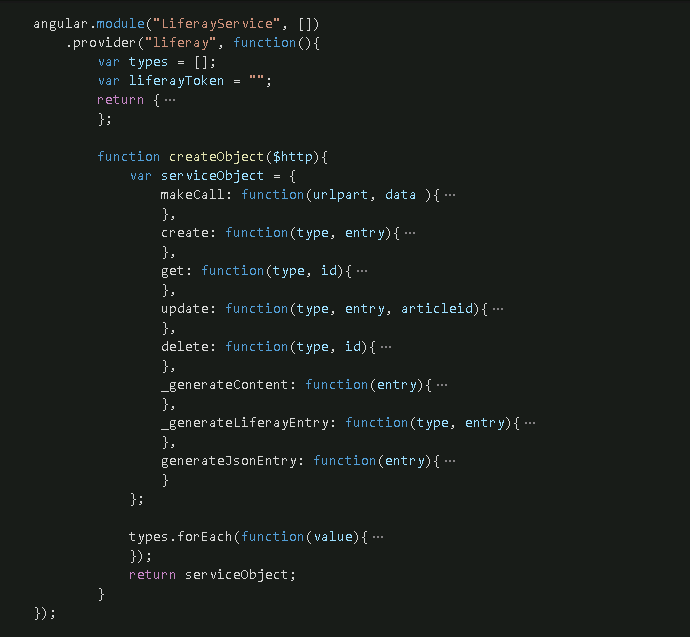
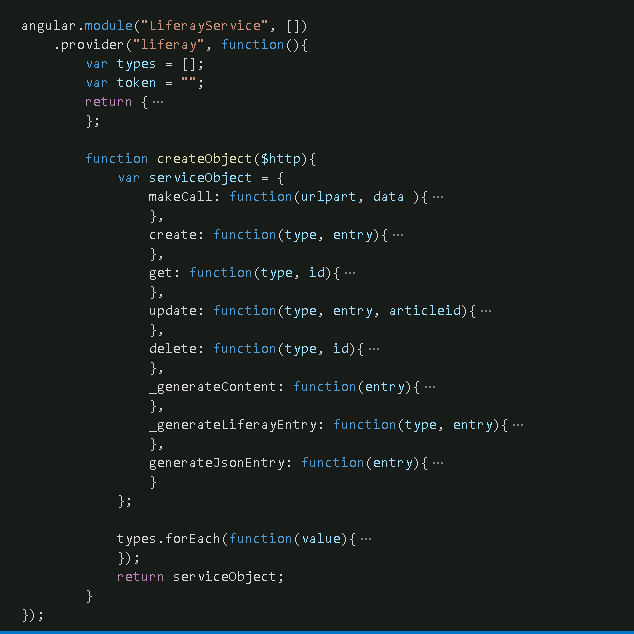
replaced Liferay Tokken for basic user auth

diff --git a/liferay-service-provider.js b/liferay-service-provider.js
@@ -40,14 +40,10 @@
 	angular.module("LiferayService", [])
 		.provider("liferay", function(){
 			var types = [];
-			var liferayToken = "";
-			var baseDomain = "";
+			var token = "";
 			return {
-				setDomain: function(domain){
-					baseDomain = domain;
-				},
-				setAuthToken: function(authtoken){
-					liferayToken = authtoken;
+				setToken: function(authtoken){
+					token = authtoken;
 				},
 				addTypes: function(type){
 					types.push(type);
@@ -60,10 +56,9 @@
 			function createObject($http){
 				var serviceObject = {
 					makeCall: function(urlpart, data ){
-						console.info(baseDomain + SERVICE_URLS.BASE + urlpart);
-						delete data.p_auth;
-						return $http.post( baseDomain + SERVICE_URLS.BASE + urlpart, data, {
-								headers: {"Content-Type": "application/x-www-form-urlencoded"},
+						console.info( SERVICE_URLS.BASE + urlpart);
+						return $http.post( SERVICE_URLS.BASE + urlpart, data, {
+								headers: {"Content-Type": "application/x-www-form-urlencoded", "Authorization" : "Basic " + token},
 								transformRequest: function(obj) {
 									var formData = [];
 									for(var property in obj){
@@ -77,27 +72,25 @@
 					create: function(type, entry){
 						var newEntry = {};
 						Object.assign(newEntry, BASE_ARTICLE_DATA, this._generateLiferayEntry(type, entry));
-						newEntry["p_auth"] = liferayToken;
 						return this.makeCall(SERVICE_URLS.CREATE, newEntry);
 					},
 					get: function(type, id){
 						var result;
 						if(id!==undefined){
-							result = this.makeCall(SERVICE_URLS.READ, {groupId: type.groupId, articleId: id, p_auth:liferayToken});
+							result = this.makeCall(SERVICE_URLS.READ, {groupId: type.groupId, articleId: id});
 						} else {
-							result = this.makeCall(SERVICE_URLS.READ_ALL, {groupId:type.groupId, folderId:type.folderId, p_auth:liferayToken});
+							result = this.makeCall(SERVICE_URLS.READ_ALL, {groupId:type.groupId, folderId:type.folderId});
 						}
 						return result;
 					},
 					update: function(type, entry, articleid){
 						var newEntry = {};
 						Object.assign(newEntry, BASE_ARTICLE_DATA, this._generateLiferayEntry(type, entry));
-						newEntry["p_auth"] = liferayToken;
 						newEntry["articleId"] = articleid;
 						return this.makeCall(SERVICE_URLS.UPDATE, newEntry);
 					},
 					delete: function(type, id){
-						return this.makeCall(SERVICE_URLS.DELETE, {groupId:type.groupId, articleId: id, articleURL: "", p_auth:liferayToken});
+						return this.makeCall(SERVICE_URLS.DELETE, {groupId:type.groupId, articleId: id, articleURL: ""});
 					},
 					_generateContent: function(entry){
 						var innerData = "";
@@ -160,3 +153,5 @@
 				return serviceObject;
 			}
 	});
+
+	

diff --git a/README.md b/README.md
@@ -28,7 +28,7 @@ Angular module for Liferay JournalArticles
       (function(app){
         "use strict";	
           app.config(["liferayProvider", function (liferayProvider) {
-            liferayProvider.setAuthToken(Liferay.authToken);
+            liferayProvider.setToken(btoa("newsletterservice:newsletterservice"));
             // setup for each type
             liferayProvider.addTypes({name:"Newsletter", groupId: 24913, folderId: 24927, structureId: 24930, templateId: 24932});
           }])
